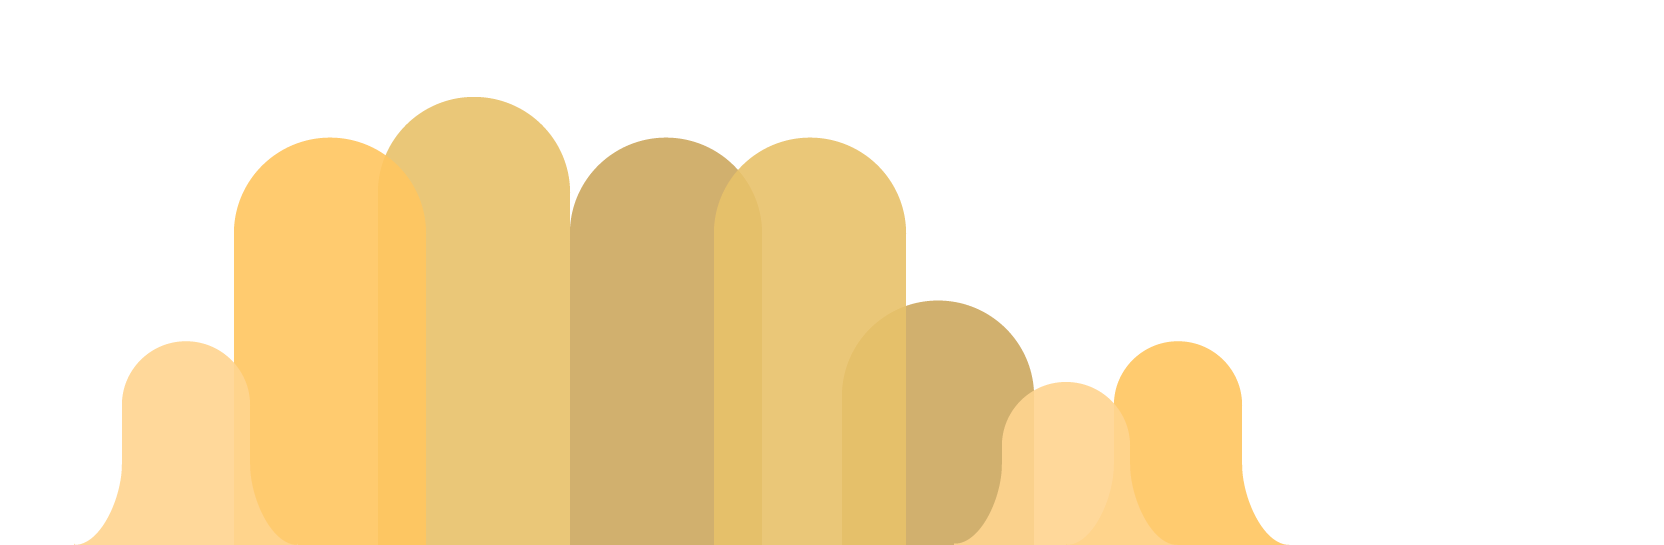
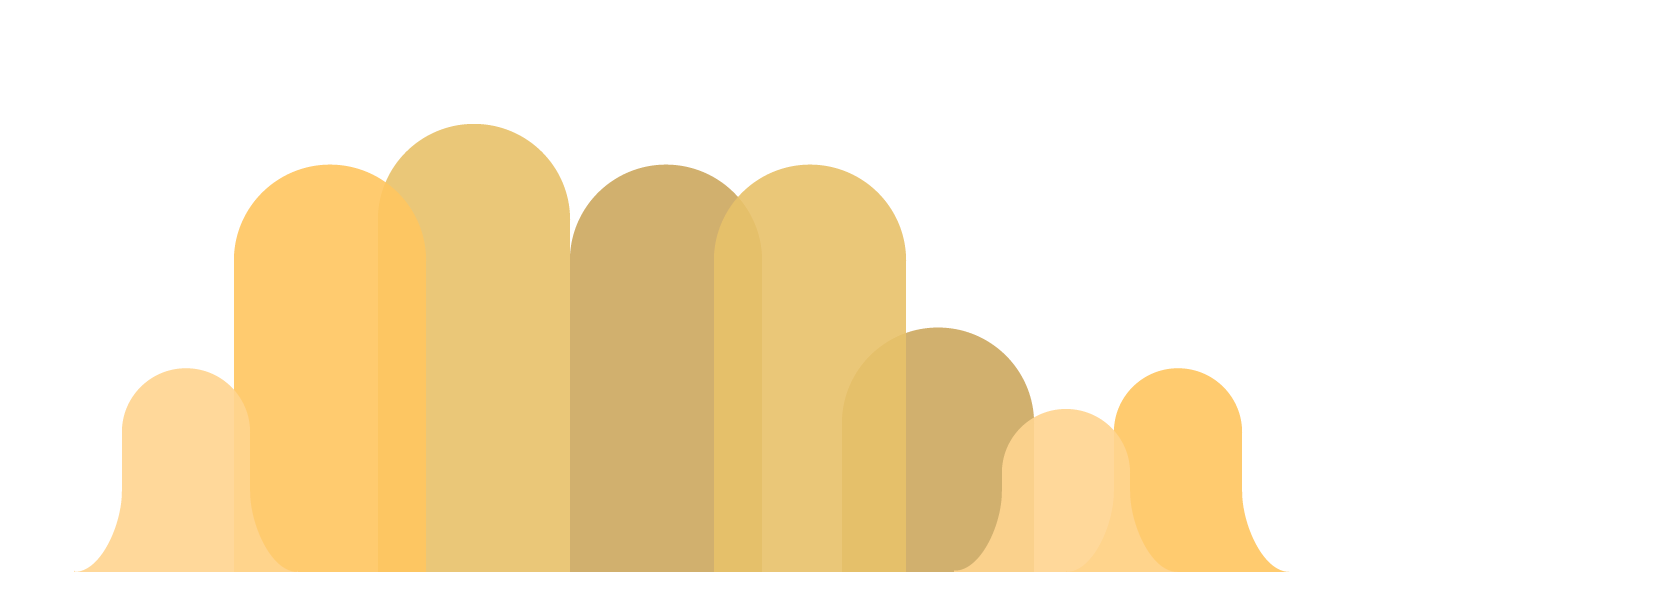
:art: Tweak movement and tiling layers

diff --git a/src/game/objects/pigzbe/index.js b/src/game/objects/pigzbe/index.js
@@ -1,5 +1,9 @@
-import {Sprite} from 'pixi.js';
-const {min, max} = Math;
+import {Container, Sprite} from 'pixi.js';
+const {
+    round,
+    min,
+    max
+} = Math;
 
 export default class Pigzbe {
     constructor({x, y, maxX, maxY, mapW}) {
@@ -9,11 +13,13 @@ export default class Pigzbe {
         this.maxY = maxY;
         this.mapW = mapW;
 
-        this.sprite = Sprite.from('pig');
-        this.sprite.anchor.set(0.5);
+        this.sprite = new Container();
+        const pig = Sprite.from('pig');
+        pig.position.set(0 - round(pig.width / 2), 0 - round(pig.height / 2));
+        this.sprite.addChild(pig);
         this.sprite.position.set(x, y);
-        this.w = this.sprite.width;
-        this.h = this.sprite.height;
+        this.w = pig.width;
+        this.h = pig.height;
         this.hw = this.w / 2;
         this.hh = this.h / 2;
 
@@ -37,6 +43,7 @@ export default class Pigzbe {
             this.y = max(this.hh, min(this.y, this.maxY - this.hh));
         }
 
+        // this.sprite.position.set(round(this.x), round(this.y));
         this.sprite.position.set(this.x, this.y);
 
         this.rx = this.x;

diff --git a/src/game/camera/index.js b/src/game/camera/index.js
@@ -1,5 +1,9 @@
 // import lerp from 'usfl/math/lerp';
-const {round, min, max} = Math;
+const {
+    // round,
+    min,
+    max
+} = Math;
 
 export default class Camera {
     constructor({target, w, h, maxX, maxY, wrapW}) {
@@ -32,10 +36,12 @@ export default class Camera {
     update() {
         this.tx = this.target.x - this.hw;
         this.ty = this.target.y - this.hh;
-        this.x = round(this.tx);
-        this.y = round(this.ty);
-        // this.x = round(lerp(this.x, this.tx, 0.1));
-        // this.y = round(lerp(this.y, this.ty, 0.1));
+        this.x = this.tx;
+        this.y = this.ty;
+        // this.x = round(this.tx);
+        // this.y = round(this.ty);
+        // this.x = lerp(this.x, this.tx, 0.1);
+        // this.y = lerp(this.y, this.ty, 0.1);
 
         if (this.maxX) {
             this.x = max(0, min(this.x, this.maxX - this.w));

diff --git a/src/game/objects/ground/index.js b/src/game/objects/ground/index.js
@@ -10,7 +10,7 @@ export default class Level {
         const [sunA] = map.layer.sun.container.children;
         const sunB = new Sprite(sunA.texture);
         sunB.position.copy(sunA.position);
-        // console.log('sunA', sunA);
+
         const groundA = map.layer.ground.container;
         const groundB = new Sprite(groundA.texture);
 
@@ -19,7 +19,6 @@ export default class Level {
         levelA.addChild(groundA);
 
         const levelB = new Container();
-        // sunB.tint = 0xff0000;
         levelB.addChild(sunB);
         levelB.addChild(groundB);
 

diff --git a/tiled/sky.tsx b/tiled/sky.tsx
@@ -8,10 +8,10 @@
   <image width="3328" height="545" source="assets/backgrounds/clouds_02.png"/>
  </tile>
  <tile id="2">
-  <image width="1664" height="545" source="assets/backgrounds/hills_01.png"/>
+  <image width="1664" height="600" source="assets/backgrounds/hills_01.png"/>
  </tile>
  <tile id="3">
-  <image width="3328" height="545" source="assets/backgrounds/mountains_01.png"/>
+  <image width="3328" height="600" source="assets/backgrounds/mountains_01.png"/>
  </tile>
  <tile id="4">
   <image width="3328" height="545" source="assets/objects/sun_01.png"/>

diff --git a/src/game/debug/index.js b/src/game/debug/index.js
@@ -30,7 +30,7 @@ export default class World {
             ${rendererType} res: ${rendererRes} dpr: ${dpr}
             angle: ${roundTo(vec.rotation, 1)}
             x/y: ${roundTo(vec.x)}/${roundTo(vec.y)}
-            camera: ${this.world.camera.left} ${this.world.camera.right}
+            camera: ${Math.round(this.world.camera.left)} ${Math.round(this.world.camera.right)}
         `;
         fps.log(info.replace(/\n/g, '<br>'));
     }

diff --git a/src/game/world/index.js b/src/game/world/index.js
@@ -19,7 +19,8 @@ export default class World {
     create(app, w, h) {
         const map = new TileMap(mapJSON);
         map.render(app.renderer, {
-            showObjectRects: process.env.NODE_ENV === 'development'
+            // showObjectRects: process.env.NODE_ENV === 'development'
+            showObjectRects: false
         });
 
         console.log('layers', Object.keys(map.layer));

diff --git a/src/game/index.js b/src/game/index.js
@@ -24,6 +24,7 @@ const spritesJSON = removeFolderNames(require('./assets/images/textures/objects0
 const tilesJSON = removeFolderNames(require('./assets/images/textures/tiles0.json'));
 
 global.PIXI = PIXI;
+// PIXI.settings.PRECISION_FRAGMENT = 'highp';
 // PIXI.settings.SCALE_MODE = PIXI.SCALE_MODES.NEAREST;
 
 export default class Game {
